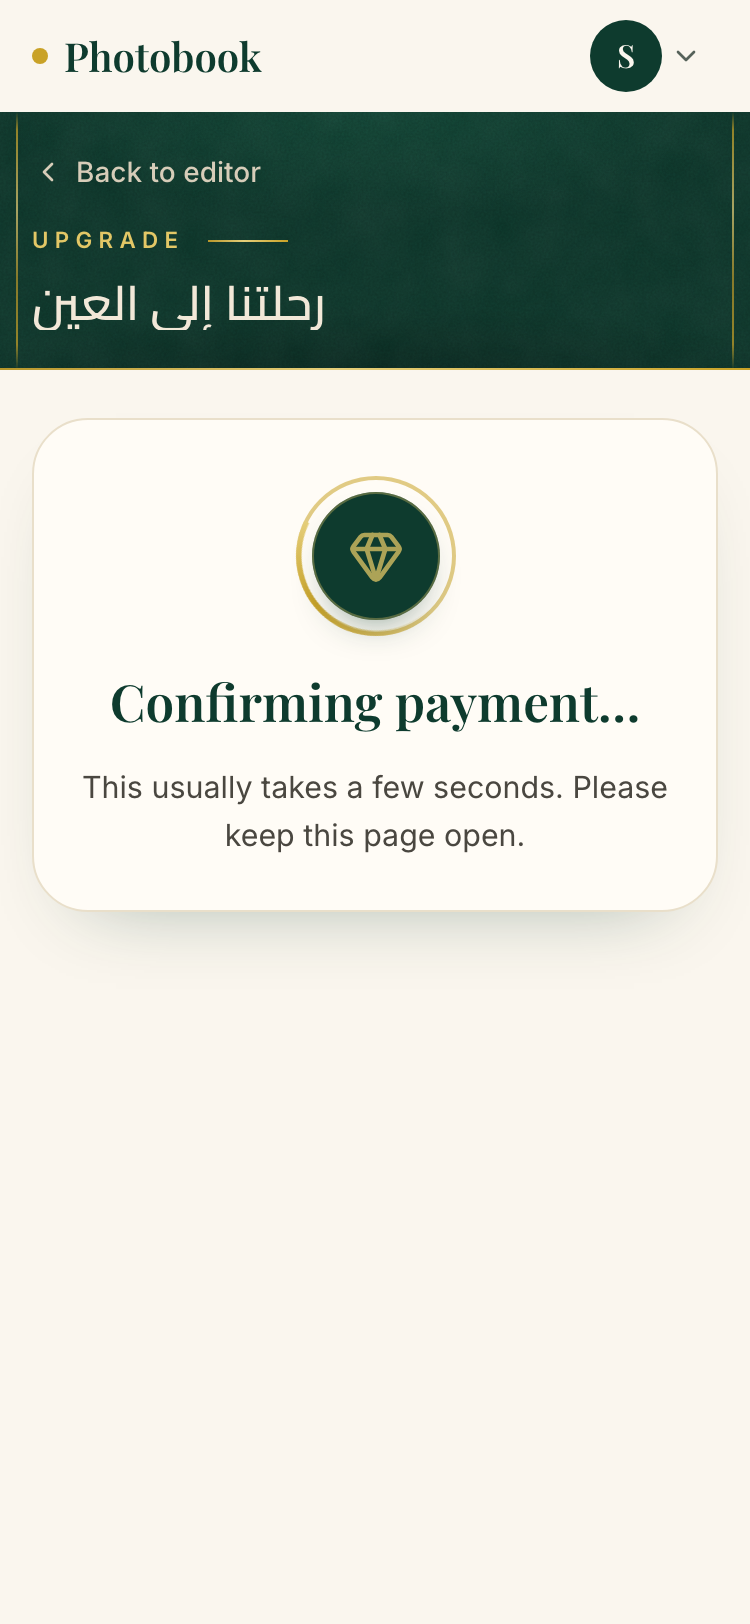
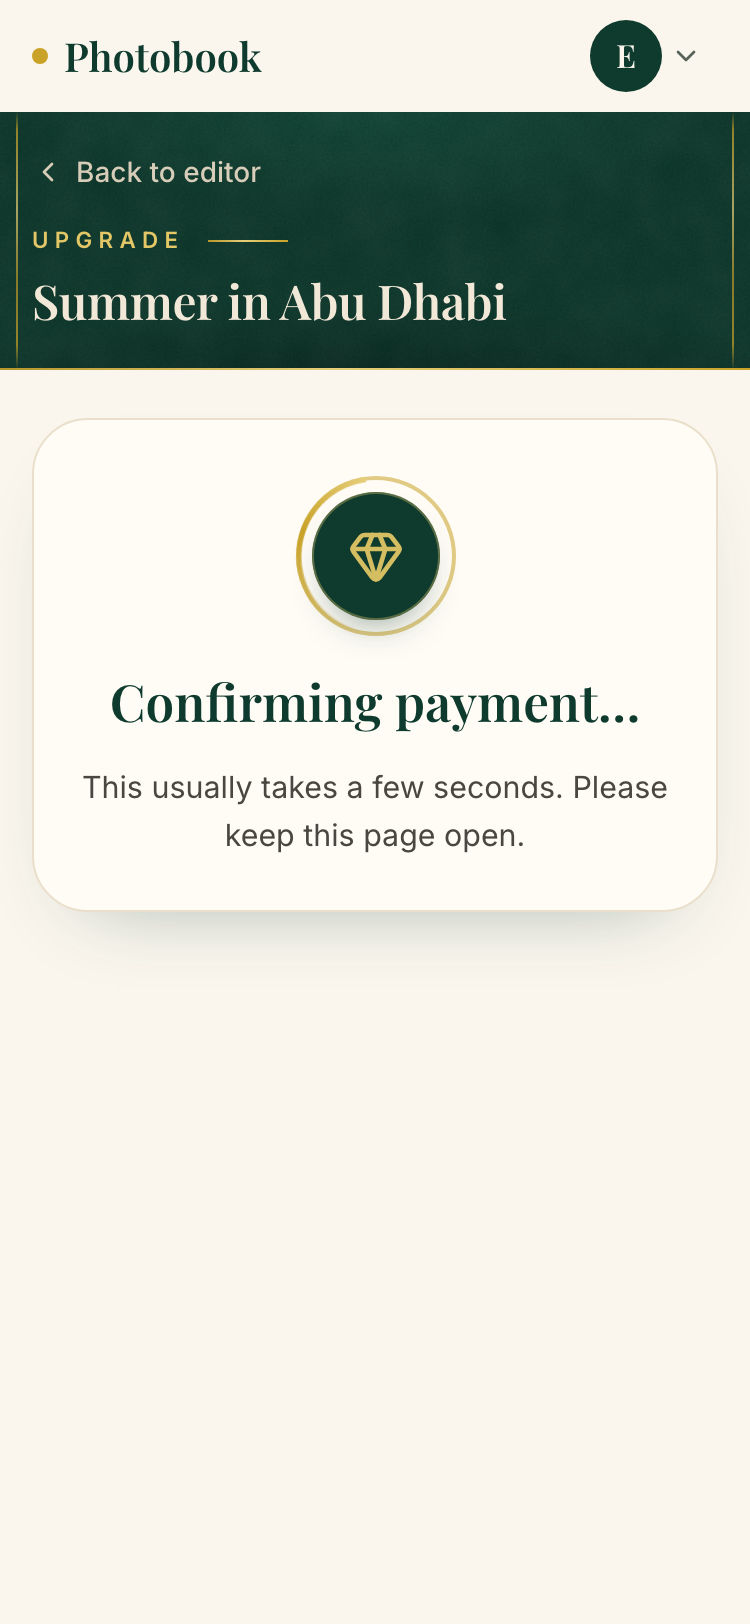
M26: review nits (status announcement on paid, unused recipe removed), real-flow screenshots; checkpoint

diff --git a/src/components/upgrade/upgrade-classes.ts b/src/components/upgrade/upgrade-classes.ts
@@ -6,7 +6,7 @@
 // the cancelled notice's looks live in upgrade-button-classes.ts (they ship on other routes).
 //
 // Contrast (tests/m26-upgrade.test.tsx recomputes every pair in UPGRADE_CONTRAST):
-//   card #fffcf6: heading emerald #0e3b2e 12.2, body #4a4740 9.0, eyebrow gold #7a5f0e 5.9.
+//   card #fffcf6: heading emerald #0e3b2e 12.2, body #4a4740 9.0.
 //   benefit card #faf6ee: ink #1b1b1d 16.1; check #f2e8d8 on emerald #0e3b2e 10.4 (graphic).
 //   gold pill: ink #1b1b1d on the foil's darkest stop #bf9a23 6.44.
 //   emerald pills: white on #0e3b2e 12.5; emerald on white 12.5.
@@ -18,7 +18,6 @@ export const UP_CARD =
   "relative isolate flex w-full min-w-0 flex-col items-center gap-4 overflow-hidden rounded-[1.75rem] border border-[#e9dfca] bg-[#fffcf6] px-5 pt-7 pb-6 text-center shadow-[0_18px_40px_-28px_rgb(14_59_46/0.45)] sm:px-8 sm:pt-9 sm:pb-8";
 
 /** Small caps line above the heading (never user text): antique gold on the card. */
-export const UP_EYEBROW = "text-[0.7rem] font-semibold tracking-[0.24em] text-[#7a5f0e] uppercase";
 
 /** The state heading (h1, serif emerald). */
 export const UP_HEADING = "font-display text-[1.6rem] leading-tight font-semibold text-[#0e3b2e] sm:text-[1.9rem]";
@@ -79,7 +78,6 @@ export const UP_REF =
 export const UPGRADE_CONTRAST: ReadonlyArray<readonly [string, string, string, number]> = [
   ["heading", "#0e3b2e", "#fffcf6", 4.5],
   ["body", "#4a4740", "#fffcf6", 4.5],
-  ["eyebrow", "#7a5f0e", "#fffcf6", 4.5],
   ["benefit text", "#1b1b1d", "#faf6ee", 4.5],
   ["benefit check (graphic)", "#f2e8d8", "#0e3b2e", 3],
   ["gold pill ink", "#1b1b1d", "#bf9a23", 4.5],

diff --git a/src/components/upgrade/UpgradeStatusPoller.tsx b/src/components/upgrade/UpgradeStatusPoller.tsx
@@ -230,7 +230,7 @@ export function UpgradeStatusView({
         <Seal tone="paid" icon={Check} />
         <div className="flex flex-col items-center gap-2">
           <h1 className={UP_HEADING}>Your book is upgraded</h1>
-          <p className={UP_BODY}>Thank you! Here&apos;s what you get:</p>
+          <p role="status" className={UP_BODY}>Thank you! Here&apos;s what you get:</p>
         </div>
         <ul className={UP_BENEFITS} data-testid="upgrade-benefits">
           {[

diff --git a/.agentos/runs/m26.md b/.agentos/runs/m26.md
@@ -6,3 +6,8 @@ Guardrails: no cn/buttonVariants/next/link/shadcn Button in client islands (plai
 - UpgradeBand (server), success page restyle, UpgradeStatusPoller states (confirming seal ring, paid gold check + one-time dot burst + benefit cards + gold Publish / emerald Back to editor; failed/timeout/signed-out/not-found cards), UpgradeCancelledNotice, UpgradeButton default emerald pill (only editor PDF tool pdf-upgrade affected); upgrade-classes / upgrade-page-classes / upgrade-button-classes; upgrade-motion.css from server pages; dev-upgrade states. Back link upgrade-back → /edit "Back to editor".
 - Checks: lint, typecheck, npm test 7948; success first load +293 B gz; no h-scroll; 44 px; reduced motion static.
 - Stripe branding (dashboard): brand #0E3B2E, accent #0E3B2E (white on gold fails AA), pill buttons, Inter or system font, cream wordmark logo, square icon on #0E3B2E.
+
+## Review — reviewer — APPROVED (0 blockers, 0 should-fix). Nits applied: removed unused UP_EYEBROW (+ contrast pair); role="status" on the paid "Thank you!" line.
+## Test — tester — PASS
+- lint/typecheck/npm test 7948. AI off: payments 7/1skip (webhook → is_paid, polling → paid without reload, guards, refunds), pdf 7, m21-share 8, publish-auth 9, m20c-confirmed 6; replay launch-smoke 7.
+- Manual real success page: confirming, signed webhook → paid in ~4 s (0 navigations) at 320/375/1280, timeout after 60 s → Refresh → paid; cancelled notice; no h-scroll, 44 px, axe 0, one gold in paid; reduced motion 0 anims; editor pdf-upgrade new look checked (402 path). /dev-upgrade 404 in prod. Cleanup to baseline.

diff --git a/.agentos/memory/lessons.md b/.agentos/memory/lessons.md
@@ -164,3 +164,4 @@ Things that went wrong or surprised us, so no agent repeats them. Format: `- (YY
 - (M24) Don't tie a control's disabled/aria-busy to useTransition pending when its action calls revalidatePath on a loading.tsx route — use a local busy flag. Toggle specs should tap twice without reload. Swapping shadcn Button for plain <button> + recipe in islands saved ~15 kB on /settings.
 - (M25) Hosted Supabase sends 8-digit email OTPs — never hard-code a code length; check generateLink().properties.email_otp.length. When a server normalizer accepts separators, the input's pattern/maxLength must too (test formatted input in a real browser). Test the code step without email via a scratch build pointed at a pass-through proxy stubbing POST /auth/v1/otp.
 - (M25) A commit pushed to its branch first gets a PREVIEW 'Vercel – photobook-app' success status with the same SHA — that is not production. After FF to main, confirm production by a page marker unique to the change (e.g. a new testid in live HTML), not the commit status alone.
+- (M26) Payment specs clean stripe_events via supabase db query --linked from the scratch dir — copy supabase/.temp into git-archive scratch copies.

diff --git a/docs/PLAN.md b/docs/PLAN.md
@@ -253,6 +253,9 @@ Plan: `.agentos/runs/m13.md`, D-070.
 ## Milestone 25 — Sign-in in the emerald style (2026-11-16)
 - [x] Restyle-only /login (D-077): leather background + cream card; desktop brand panel with floating book; gold email CTA, emerald Google outline; restyled code step; −15 kB first load. Also fixed: email code sign-in now accepts the 8-digit codes Supabase sends (6–10 digits, spaces/dashes OK). Report: `.agentos/runs/m25.md`. Deployed 2026-11-16.
 
+## Milestone 26 — Upgrade payment screens in the emerald style (2026-11-16)
+- [x] Restyle-only post-checkout screens (D-078): emerald band with book title, confirming seal, paid celebration with benefit cards and gold Publish, calm timeout/failed cards, cancelled notice; payment logic untouched; Stripe-hosted checkout branding via dashboard (#0E3B2E). Report: `.agentos/runs/m26.md`.
+
 ## Milestone 10+ — After launch
 - [ ] Printing in the UAE (print-shop partner, print-ready PDF, address checkout, Aramex delivery, `/admin/orders`)
 - [ ] AI "story mode": a short paragraph per chapter (AI-picked backgrounds moved into M10c)

diff --git a/.agentos/memory/progress.md b/.agentos/memory/progress.md
@@ -223,3 +223,6 @@ Format: `## YYYY-MM-DD — Milestone N — status` then 3–6 bullets: what was 
 
 ## 2026-11-16 — Milestone 25 (Sign-in in the emerald style) — done + deployed
 - Restyle-only login (D-077); pre-existing 8-digit OTP bug fixed (code sign-in never worked); tested live; reviewer APPROVED; /login −15 kB.
+
+## 2026-11-16 — Milestone 26 (Upgrade screens in the emerald style) — done, awaiting deploy OK
+- Restyle-only upgrade success/cancel screens (D-078); payments e2e green; reviewer APPROVED. User to set Stripe branding (#0E3B2E brand + accent, pill buttons).
